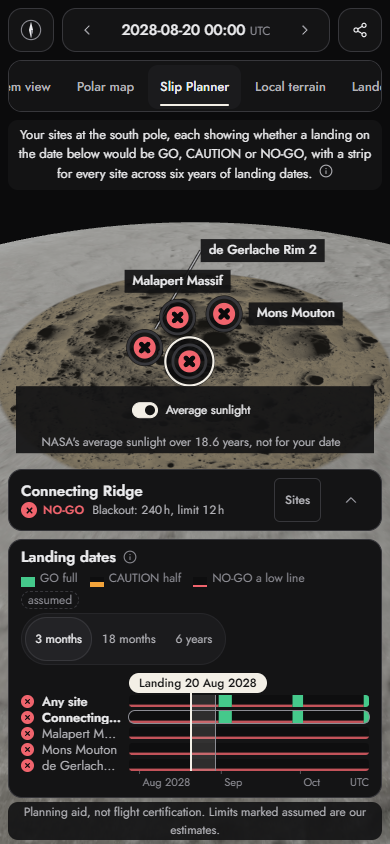
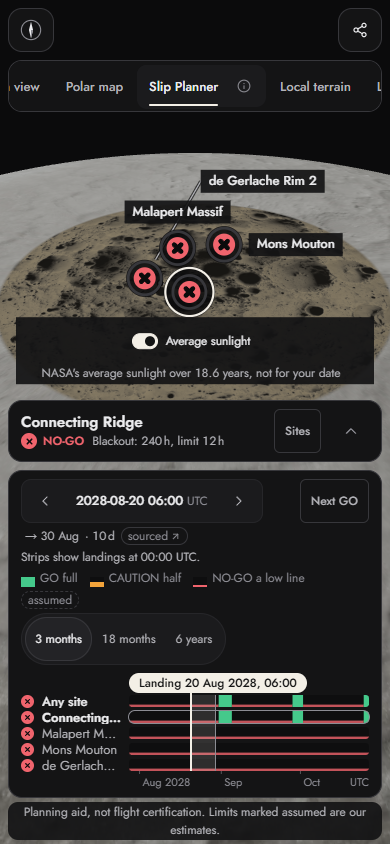
MC7: the 00:00 note over the row names at 1440; retaken screenshots; DEVLOG
- With the landing at another hour, the open layout shows "Strips show landings
  at 00:00 UTC." above the row names, so the header stays one row at 1440 (it
  stays in the head on the phone and in the folded row).
- Built screenshots retaken after #83 and the review fixes, plus a new one at
  06:00 (built-slip-0600.png).
- DEVLOG: the review round, the #83 changes and how they were checked. Still
  built, not verified.

diff --git a/web/src/features/mission-control/slip-planner/landing-date-panel.tsx b/web/src/features/mission-control/slip-planner/landing-date-panel.tsx
@@ -454,7 +454,8 @@ function Dates(props: DatesProps) {
         <div className={cx("tl-landing ldp-date-slot", compact && "tl-compact-landing")} data-slot="landing-date-control">
           <LandingDateControl />
         </div>
-        {wholeNote}
+        {/* On the phone the note sits in the head; on a wider screen, over the row names. */}
+        {compact ? wholeNote : null}
         <span className="ldp-key" aria-label="Key: GO is a full mark, CAUTION a half mark, NO-GO a low line. A spot's ring is its score.">
           <span aria-hidden="true">
             <i className="ldp-key-go" />
@@ -491,6 +492,7 @@ function Dates(props: DatesProps) {
         className="ldp-grid"
         style={{ gridTemplateRows: `22px ${height}px 18px` }}
       >
+        {!compact && !whole ? <span className="ldp-whole ldp-whole-grid">{WHOLE_NOTE}</span> : null}
         <div className="ldp-labels" style={{ gridRow: 2, height }}>
           {rows.map((row, i) => (
             <RowLabel

diff --git a/web/src/features/mission-control/slip-planner/slip-planner.css b/web/src/features/mission-control/slip-planner/slip-planner.css
@@ -48,6 +48,14 @@
     font-size: var(--t-sm);
   }
 
+  /* Above the row names, beside the strips it is about, so the head stays one row. */
+  .ldp-whole-grid {
+    grid-column: 1;
+    grid-row: 1;
+    align-self: center;
+    white-space: nowrap;
+  }
+
   /* On the phone the landing-date control takes its own row, as at the head of the timeline. */
   .ldp[data-compact="true"] .ldp-date-slot {
     flex-basis: 100%;

diff --git a/DEVLOG.md b/DEVLOG.md
@@ -576,7 +576,9 @@ Every one of the 65 proposed keys has a definition, source arrays, availability,
   `scene-root.tsx`), `web/src/app/scene.ts` (optional `onProjector`, `slipShading`),
   `web/src/app/mission/` (`views.ts`, `scene-slot.tsx`, `scene-status.ts`, `view-bar.tsx`
   comment, three tests), `web/src/app/mission-screen.tsx`, `web/src/components/StatusLamp.tsx`
-  (exports `GLYPH`), `web/vite.config.ts` (the worker build input is gone),
+  (exports `GLYPH`), `web/src/app/mission/landing-control.ts` and its two tests (the
+  no-GO wording), `web/src/features/three/scene/world.ts` (a comment for the ground look),
+  `web/vite.config.ts` (the worker build input is gone), `docs/features/site-detail.md`,
   `docs/features/slip-planner.md`, `docs/design/c2/built-slip-*.png`, this entry
 - **Notes:**
   - Every status, score and veto is the sweep's (`useSweeps`), packed per 00:00 UTC day by
@@ -602,6 +604,32 @@ Every one of the 65 proposed keys has a definition, source arrays, availability,
     and 44 px touch targets on the phone.
   - On the phone the strip rows are 12 px tall: the spec makes the whole strip area one
     touch target, so they leave the tab order and the slider knob is the keyboard path.
+  - Review round 1 (Cursor, request changes; 2026-11-14), all fixed on this branch:
+    - One source: every status, rule and score a user reads for a site and a landing hour
+      comes from the rail's `cachedEvaluation` (`slip-planner/landing-results.ts`). A spot
+      therefore equals the rail even while a new profile's sweep runs; the strips never show
+      the previous profile's sweep; the packed Float32 score is never shown (IM-2 days where
+      it floors one higher: sphere 30, edge 1476, wide 1584; every day of one site tested).
+    - "Any site" is GO as soon as a known site is GO; CAUTION, NO-GO and "no GO before…"
+      wait for every site; the hover, `aria-valuetext` and "next GO" follow the same rule.
+    - A landing not at 00:00 UTC: the header, folded row, slider words and row lamps read
+      the real landing; strips, hovers and "next GO" are 00:00 UTC and say so; the note
+      shows open (over the row names), folded and on the phone.
+    - A failed sweep is its own state, with Retry; "Any site" works from the others.
+    - The shading keeps a (short) label when the free space has no room for the controls.
+    - `panel-mount.test.ts` mounts the panel and the spots with the real hooks: no new sweep
+      and no redraw while the date moves in range; spot = rail before a new sweep answers;
+      the 06:00 note in three layouts; a failed sweep and Retry.
+  - After #83: the header mounts `LandingDateControl` (the panel's own mission-window line
+    is gone). The button's no-GO line now reads "No later GO before 2032"
+    (`app/mission/landing-control.ts`, its two tests, `site-detail.md`), so it never
+    contradicts "GO on this date" beside it.
+  - Checked by eye with the real data in headless Chrome (one browser, closed between runs):
+    1440, 1024 with eight sites including two best-lit variants (no label or spot overlap;
+    the variants keep their names on hover), the phone and the folded row at 06:00; the
+    computing state after a profile change was read from the page (the progress bar,
+    "computing…", "Still computing 4 of 4 sites.", spots equal to the rail), not
+    photographed: a slowed browser could not take the picture in time.
 
 #### 2026-11-14 · MC shell feedback · No view sentence; the landing date joins the timeline; "Next GO"
 - **Who:** Claude Code agent, for the orchestrator
